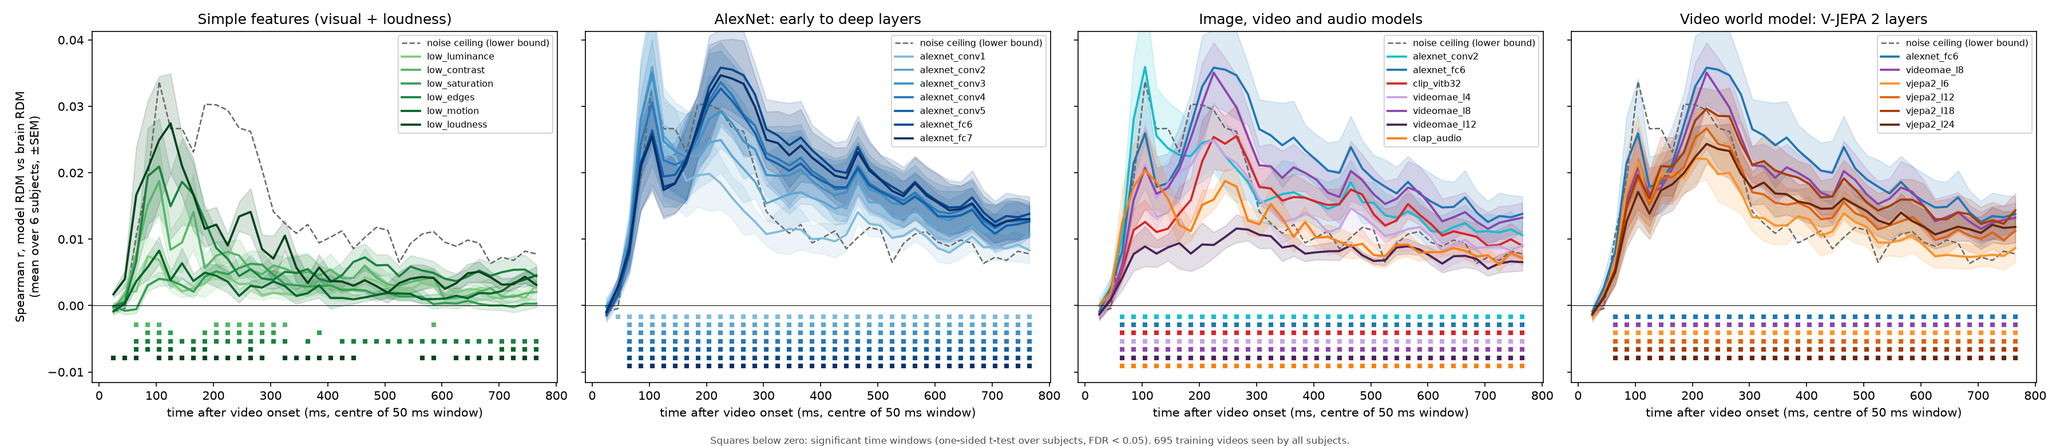
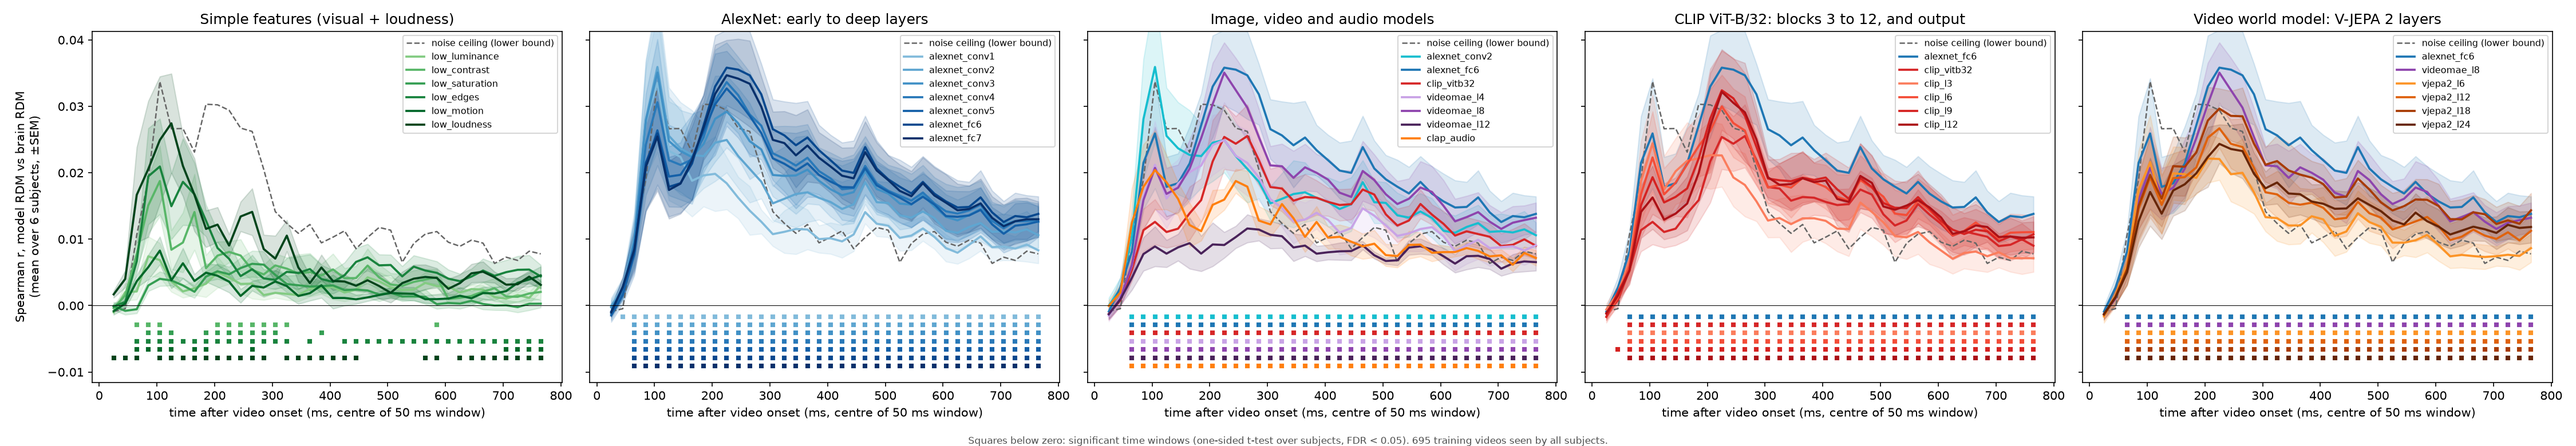
RSA: CLIP ViT-B/32 inner layers (blocks 3/6/9/12)

diff --git a/eeg_pipeline/rsa_features.py b/eeg_pipeline/rsa_features.py
@@ -13,6 +13,10 @@ Feature sets (all public, released before the hackathon):
              say which simple property the brain tracks.
   alexnet    torchvision AlexNet (IMAGENET1K_V1), ReLU outputs of conv1..conv5 average-
              pooled to 4x4, plus fc6/fc7; mean over 8 frames.
+  clip       OpenCLIP ViT-B-32 / openai (open_clip 3.3.0, the model of Daniel's clip_vitb32.npz):
+             tokens mean-pooled after transformer blocks 3, 6, 9 and 12 of 12 (before the
+             final projection), plus clip_final = the L2-normalized image embedding (which
+             should reproduce Daniel's file); mean over 8 frames.
   videomae   MCG-NJU/videomae-base-finetuned-kinetics (VideoMAE, 2022): 16 frames as one
              clip, tokens mean-pooled at transformer layers 4, 8 and 12. The only model
              here that sees motion over time.
@@ -36,6 +40,8 @@ from decord import VideoReader, cpu
 
 N_FRAMES_LOW = 16
 N_FRAMES_IMG = 8
+CLIP = ('ViT-B-32', 'openai')
+CLIP_LAYERS = (3, 6, 9, 12)
 VIDEOMAE = 'MCG-NJU/videomae-base-finetuned-kinetics'
 VIDEOMAE_LAYERS = (4, 8, 12)
 VJEPA2 = 'facebook/vjepa2-vitl-fpc64-256'
@@ -117,6 +123,26 @@ def alexnet_encoder():
     return encode
 
 
+def clip_encoder():
+    import open_clip
+    from PIL import Image
+    model, _, prep = open_clip.create_model_and_transforms(*CLIP)
+    model.eval()
+    blocks = model.visual.transformer.resblocks
+    hs = {}
+    for k in CLIP_LAYERS:                        # output of transformer block k (1-based)
+        blocks[k - 1].register_forward_hook(lambda m, i, o, k=k: hs.__setitem__(k, o))
+
+    @torch.no_grad()
+    def encode(frames):
+        x = torch.stack([prep(Image.fromarray(f)) for f in frames])
+        emb = F.normalize(model.encode_image(x), dim=-1)      # as Daniel's clip_vitb32.npz
+        out = {f'clip_l{k}': hs[k].mean((0, 1)) for k in CLIP_LAYERS}   # tokens, then frames
+        out['clip_final'] = emb.mean(0)
+        return {k: v.numpy() for k, v in out.items()}
+    return encode
+
+
 def videomae_encoder():
     from transformers import VideoMAEImageProcessor, VideoMAEModel
     proc = VideoMAEImageProcessor.from_pretrained(VIDEOMAE)
@@ -169,7 +195,7 @@ def main(argv=None):
     ap.add_argument('--stim_dir', required=True)
     ap.add_argument('--out_dir', default='work/rsa_features')
     ap.add_argument('--models', nargs='+', default=['lowlevel', 'alexnet', 'videomae'],
-                    choices=['lowlevel', 'alexnet', 'videomae', 'vjepa2', 'audio'])
+                    choices=['lowlevel', 'alexnet', 'clip', 'videomae', 'vjepa2', 'audio'])
     ap.add_argument('--limit', type=int, default=None, help='first N videos only (timing test)')
     args = ap.parse_args(argv)
 
@@ -180,7 +206,7 @@ def main(argv=None):
     out_dir.mkdir(parents=True, exist_ok=True)
 
     for model in args.models:
-        encode = {'lowlevel': lowlevel, 'alexnet': alexnet_encoder,
+        encode = {'lowlevel': lowlevel, 'alexnet': alexnet_encoder, 'clip': clip_encoder,
                   'videomae': videomae_encoder, 'vjepa2': vjepa2_encoder,
                   'audio': audio_encoder}[model]
         encode = encode if model == 'lowlevel' else encode()

diff --git a/eeg_pipeline/rsa.py b/eeg_pipeline/rsa.py
@@ -290,7 +290,7 @@ def main(argv=None):
 
 def plot(t, curves, lo, up, path):
     """Panels: simple features, the AlexNet hierarchy, image/video/audio models, and (if
-    present) the V-JEPA 2 layers next to VideoMAE-l8 and AlexNet fc6.
+    present) the CLIP and V-JEPA 2 layers next to VideoMAE-l8 and AlexNet fc6.
     Only the lower noise ceiling is drawn: with single-trial RDMs the upper bound is
     inflated (each subject is partly compared with itself) and carries no information."""
     import matplotlib
@@ -304,12 +304,17 @@ def plot(t, curves, lo, up, path):
          [n for n in ('alexnet_conv2', 'alexnet_fc6', 'clip_vitb32_daniel', 'videomae_l4',
                       'videomae_l8', 'videomae_l12', 'clap_audio') if n in curves], None),
     ]
+    clip = sorted((n for n in curves if n.startswith('clip_l')), key=lambda n: int(n.split('_l')[-1]))
+    if clip:
+        panels.append(('CLIP ViT-B/32: blocks 3 to 12, and output',
+                       [n for n in ('alexnet_fc6', 'clip_vitb32_daniel') if n in curves] + clip, None))
     if vjepa:
         panels.append(('Video world model: V-JEPA 2 layers',
                        [n for n in ('alexnet_fc6', 'videomae_l8') if n in curves] + vjepa, None))
     fixed = {'alexnet_conv2': 'tab:cyan', 'alexnet_fc6': 'tab:blue', 'clip_vitb32_daniel': 'tab:red',
              'videomae_l4': '#c9a3e6', 'videomae_l8': '#8e44ad', 'videomae_l12': '#4a235a',
              'clap_audio': 'tab:orange'}
+    fixed.update({n: plt.get_cmap('Reds')(0.3 + 0.55 * (i + 1) / len(clip)) for i, n in enumerate(clip)})
     fixed.update({n: plt.get_cmap('YlOrBr')(0.35 + 0.65 * (i + 1) / len(vjepa)) for i, n in enumerate(vjepa)})
     top = max(max(c[0].max() for c in curves.values()), lo.max()) * 1.15
     fig, axes = plt.subplots(1, len(panels), figsize=(6 * len(panels), 5.2), sharey=True)
